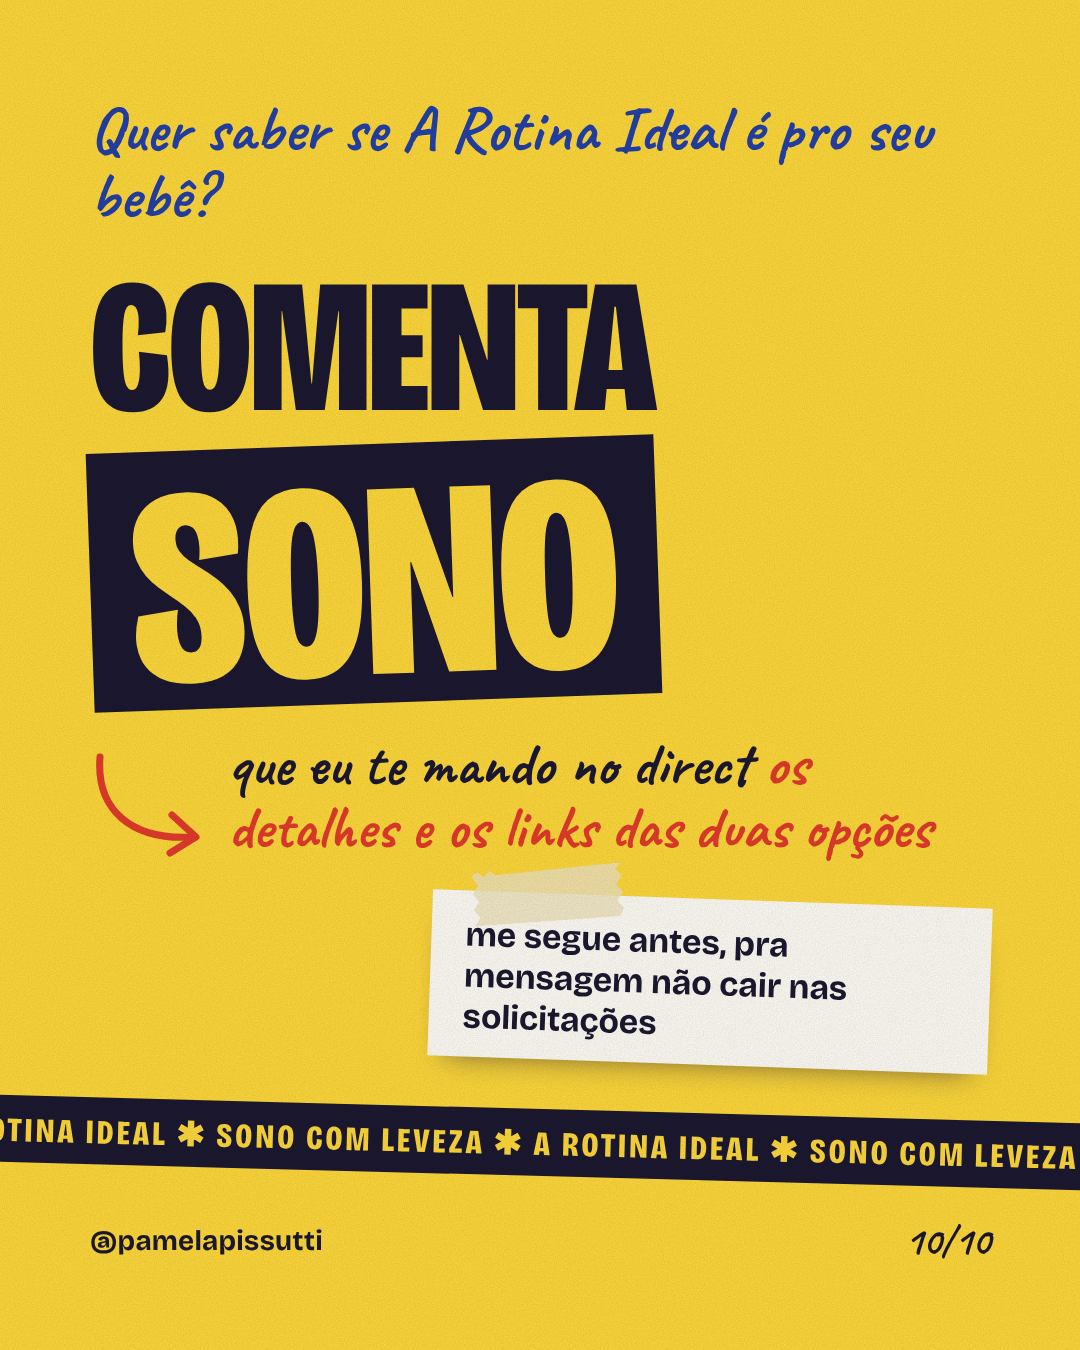
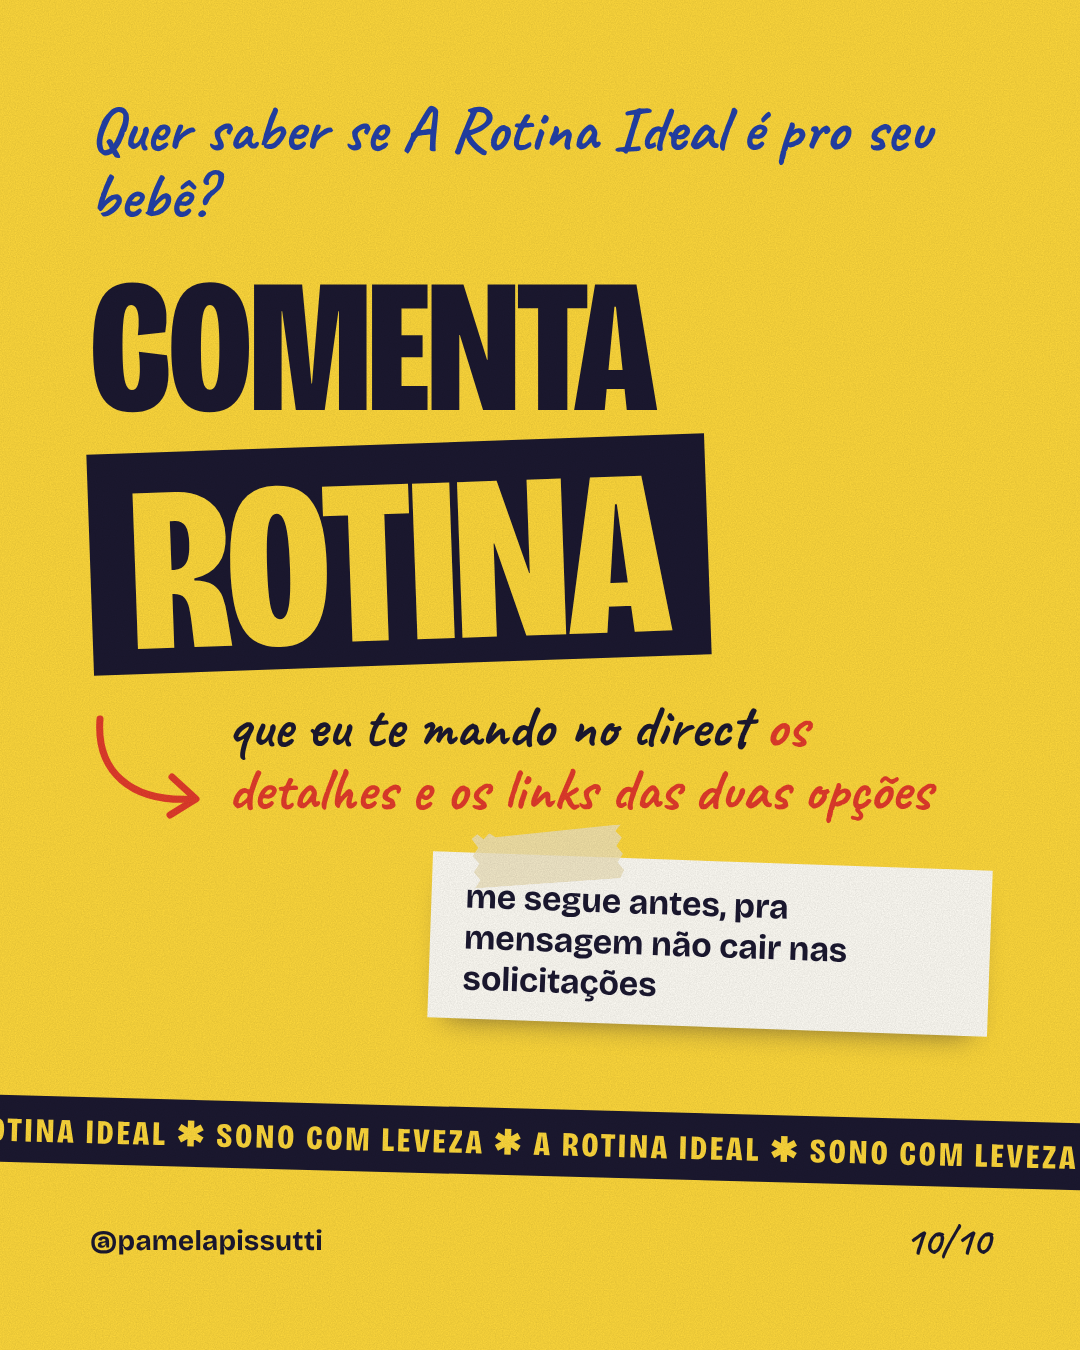
Change Rotina Ideal comment keyword to ROTINA
Claude-Session: https://claude.ai/code/session_016EYGA2exXZN97MRW6zcQJK

Changed region(s): [[0.0611, 0.3111, 0.9167, 0.8089]]

diff --git a/instagram/rotina-ideal-venda/montador.html b/instagram/rotina-ideal-venda/montador.html
@@ -226,7 +226,7 @@ E se não funcionar pro seu bebê? A mentoria completa tem garantia condicional 
 
 E se preferir começar pelo avulso e decidir continuar em até 7 dias depois da videochamada, os R$ 297 viram desconto na mentoria completa 💛
 
-💬 Comenta SONO que eu te mando no direct os detalhes e os links das duas opções (me segue antes, pra mensagem não cair nas solicitações).
+💬 Comenta ROTINA que eu te mando no direct os detalhes e os links das duas opções (me segue antes, pra mensagem não cair nas solicitações).
 
 #sonodobebe #rotinaideal #mentoriadosono #sonorespeitoso #bebenaodorme #bebeacordamuito #janelasdesono #maternidadereal #maedeprimeiraviagem #pamelapissutti</pre>
     <div class="linha">
@@ -253,7 +253,7 @@ E se preferir começar pelo avulso e decidir continuar em até 7 dias depois da 
     { n: 7, nome: 'Prazer, Pâmela', foto: 'pamela' },
     { n: 8, nome: 'Duas opções' },
     { n: 9, nome: 'Garantia' },
-    { n: 10, nome: 'Comenta SONO' },
+    { n: 10, nome: 'Comenta ROTINA' },
   ];
 
   const pad = (n) => String(n).padStart(2, '0');

diff --git a/instagram/rotina-ideal-venda/slides.html b/instagram/rotina-ideal-venda/slides.html
@@ -527,7 +527,7 @@
     display: inline-block;
     background: var(--tinta);
     color: var(--amarelo);
-    font-size: 280px;
+    font-size: 236px;
     padding: 18px 40px 0;
     margin-top: 14px;
     transform: rotate(-2deg);
@@ -693,7 +693,7 @@
 <!-- 10 · CTA -->
 <section class="slide amarelo cta" id="s10">
   <p class="mao abre">Quer saber se A Rotina Ideal é pro seu bebê?</p>
-  <h2 class="grito">Comenta<br><span class="palavra">Sono</span></h2>
+  <h2 class="grito">Comenta<br><span class="palavra">Rotina</span></h2>
   <div class="mao convite">
     <svg width="120" height="110" viewBox="0 0 120 110" style="overflow:visible;flex:none"><path d="M10 8 C 6 60, 40 92, 104 88" fill="none" stroke="#E33B2B" stroke-width="7" stroke-linecap="round"/><path d="M82 66 L106 88 L80 104" fill="none" stroke="#E33B2B" stroke-width="7" stroke-linecap="round" stroke-linejoin="round"/></svg>
     <span>que eu te mando no direct <b>os detalhes e os links das duas opções</b></span>

diff --git a/instagram/rotina-ideal-venda/legenda.md b/instagram/rotina-ideal-venda/legenda.md
@@ -24,7 +24,7 @@ E se não funcionar pro seu bebê? A mentoria completa tem garantia condicional 
 
 E se preferir começar pelo avulso e decidir continuar em até 7 dias depois da videochamada, os R$ 297 viram desconto na mentoria completa 💛
 
-💬 Comenta SONO que eu te mando no direct os detalhes e os links das duas opções (me segue antes, pra mensagem não cair nas solicitações).
+💬 Comenta ROTINA que eu te mando no direct os detalhes e os links das duas opções (me segue antes, pra mensagem não cair nas solicitações).
 
 #sonodobebe #rotinaideal #mentoriadosono #sonorespeitoso #bebenaodorme #bebeacordamuito #janelasdesono #maternidadereal #maedeprimeiraviagem #pamelapissutti
 
@@ -40,9 +40,9 @@ E se preferir começar pelo avulso e decidir continuar em até 7 dias depois da 
 - **Prova social:** não coloquei número de mães atendidas porque o site traz números diferentes em páginas diferentes (+250, +300, +1.000). Se quiser, me diga o número certo que eu incluo no slide 7.
 - **Depoimentos:** um print real de mensagem de mãe aumenta muito a conversão. Se você tiver um com autorização, dá para virar mais um slide.
 
-## Primeira mensagem no direct (para quem comentar SONO)
+## Primeira mensagem no direct (para quem comentar ROTINA)
 
-> Oi, [nome]! Aqui é a Pâmela 💛 Vi que você comentou SONO. Me conta: quantos meses tem o seu bebê e o que mais tá pegando nas noites aí?
+> Oi, [nome]! Aqui é a Pâmela 💛 Vi que você comentou ROTINA. Me conta: quantos meses tem o seu bebê e o que mais tá pegando nas noites aí?
 
 Deixe o link para depois da resposta dela: primeiro escute, depois mostre como A Rotina Ideal resolve aquele caso específico.
 
@@ -57,4 +57,4 @@ Deixe o link para depois da resposta dela: primeiro escute, depois mostre como A
 7. "Prazer, Pâmela Pissutti: mentora de mães, mãe também, pós-graduanda em neurociência do sono infantil."
 8. "Dá pra começar de dois jeitos: plano avulso por R$ 297 ou 6x de R$ 49,50, com os R$ 297 virando desconto se continuar em até 7 dias; mentoria completa de 28 dias por R$ 797 ou 6x de R$ 132,83, com garantia de devolução. As duas em até 6x sem juros."
 9. "E se não funcionar pro meu bebê? Se nada melhorar, eu devolvo: na mentoria completa, se a rotina foi seguida e o sono do bebê não teve nenhuma melhora em 28 dias, 100% do valor volta. Pra valer: bebê com mais de 4 meses, checklist 2x por semana e respostas em até 2 dias úteis."
-10. "Comenta SONO que eu te mando no direct os detalhes e os links das duas opções."
+10. "Comenta ROTINA que eu te mando no direct os detalhes e os links das duas opções."
